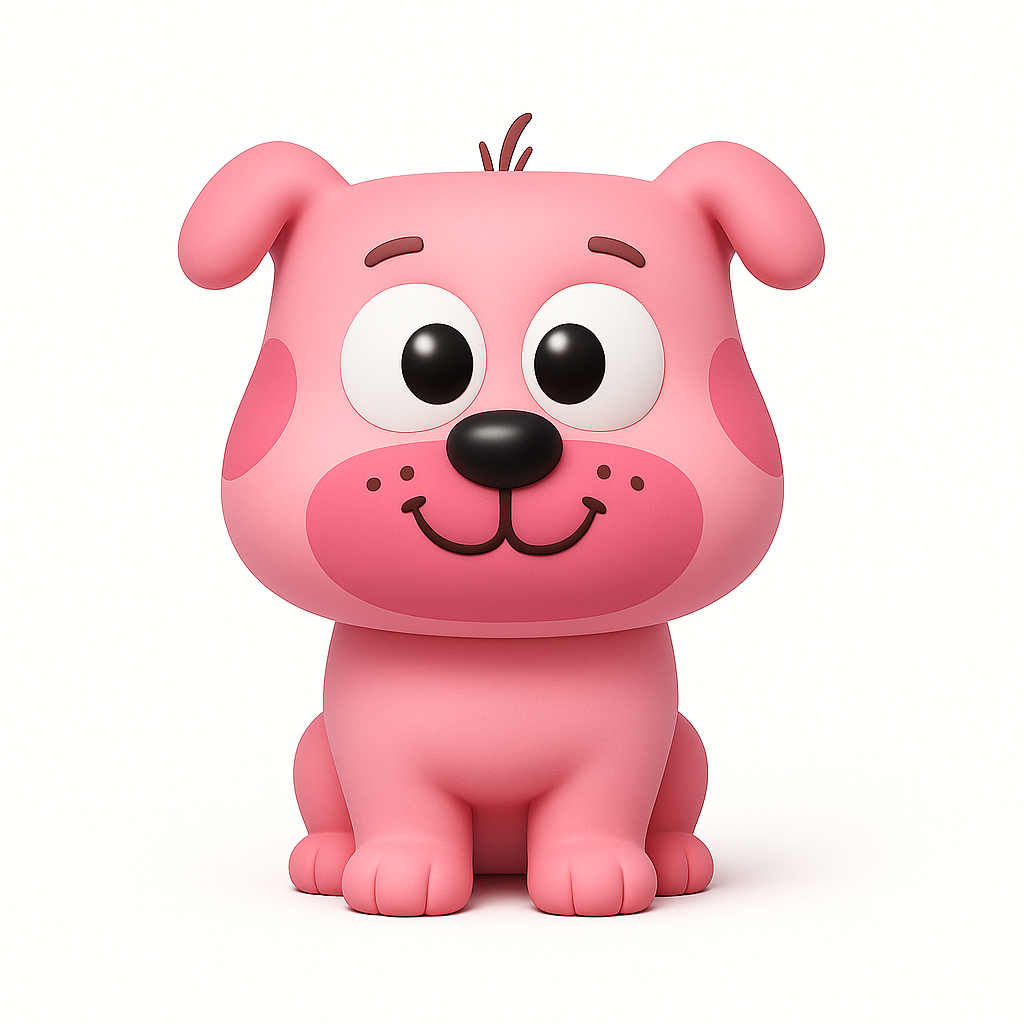
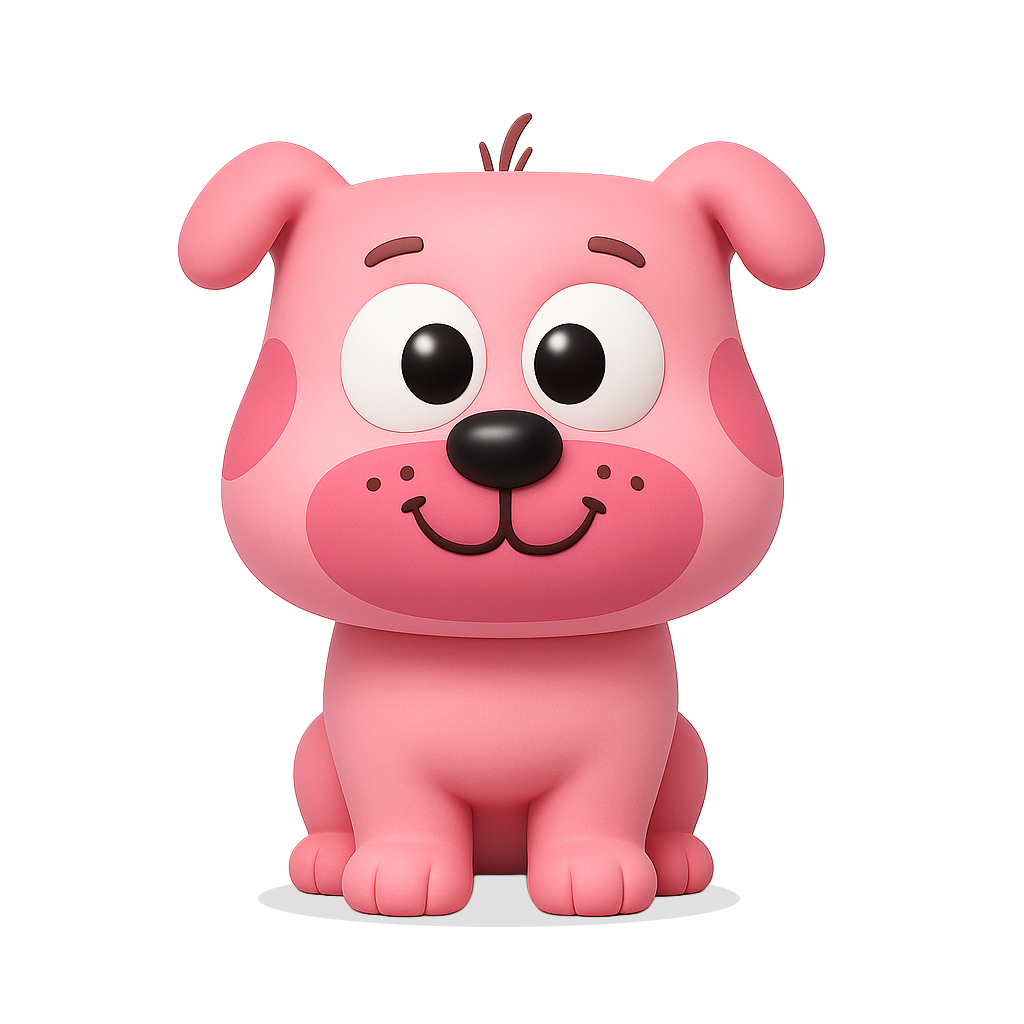
Update button labels in Hero and AboutUs components for clarity. Introduce BackgroundGradient component for enhanced visual effects in Services component. Replace deprecated image assets and add new HoverBorderGradient component for improved button interactions.

Changed region(s): [[0.25, 0.8125, 0.7812, 0.9062]]

diff --git a/components/pinkdog/services.tsx b/components/pinkdog/services.tsx
@@ -1,9 +1,10 @@
 "use client";
 import React from "react";
-import { motion } from "framer-motion";
+import { motion } from "motion/react";
 import Image from "next/image";
 import Link from "next/link";
 import { Button } from "@/components/ui/button";
+import { BackgroundGradient } from "@/components/ui/background-gradient";
 
 // Service card data
 const services = [
@@ -81,30 +82,39 @@ export function Services() {
               whileInView={{ opacity: 1, y: 0 }}
               transition={{ duration: 0.5, delay: index * 0.1 }}
               viewport={{ once: true }}
-              className="relative bg-white rounded-2xl shadow-lg overflow-hidden group"
             >
-              <div className={`absolute top-0 left-0 w-1/2 h-full ${service.color} opacity-40 rounded-r-full transform -translate-x-1/4 transition-transform group-hover:translate-x-0`}></div>
-              
-              <div className="p-6 h-full relative">
-                <div className="w-full">
-                  <div className="relative w-20 h-20 mb-4 bg-[#FCD1E6] rounded-xl p-4">
-                    <Image
-                      src={service.icon}
-                      alt={`${service.title} icon`}
-                      fill
-                      className="object-contain"
-                    />
+              <BackgroundGradient 
+                containerClassName="rounded-2xl"
+                className="p-0"
+                animate={true}
+                pinkTheme={true}
+                subtle={true}
+              >
+                <div className="relative bg-white rounded-3xl overflow-hidden group h-full">
+                  <div className={`absolute top-0 left-0 w-1/2 h-full ${service.color} opacity-30 rounded-r-full transform -translate-x-1/4 transition-transform group-hover:translate-x-0`}></div>
+                  
+                  <div className="p-6 h-full relative">
+                    <div className="w-full">
+                      <div className="relative w-20 h-20 mb-4 bg-[#FCD1E6] rounded-xl p-4">
+                        <Image
+                          src={service.icon}
+                          alt={`${service.title} icon`}
+                          fill
+                          className="object-contain"
+                        />
+                      </div>
+                      <h3 className="text-2xl font-bold text-gray-900 mb-2">{service.title}</h3>
+                      <p className="text-gray-600 mb-4">{service.description}</p>
+                      <Button
+                        className="bg-[#E73992] text-white hover:bg-[#d3337f] rounded-full"
+                        asChild
+                      >
+                        <Link href={service.link}>Learn More</Link>
+                      </Button>
+                    </div>
                   </div>
-                  <h3 className="text-2xl font-bold text-gray-900 mb-2">{service.title}</h3>
-                  <p className="text-gray-600 mb-4">{service.description}</p>
-                  <Button
-                    className="bg-[#E73992] text-white hover:bg-[#d3337f] rounded-full"
-                    asChild
-                  >
-                    <Link href={service.link}>Learn More</Link>
-                  </Button>
                 </div>
-              </div>
+              </BackgroundGradient>
             </motion.div>
           ))}
         </div>

diff --git a/components/ui/hover-border-gradient.tsx b/components/ui/hover-border-gradient.tsx
@@ -1,0 +1,99 @@
+"use client";
+import React, { useState, useEffect, useRef } from "react";
+
+import { motion } from "motion/react";
+import { cn } from "@/lib/utils";
+
+type Direction = "TOP" | "LEFT" | "BOTTOM" | "RIGHT";
+
+export function HoverBorderGradient({
+  children,
+  containerClassName,
+  className,
+  as: Tag = "button",
+  duration = 1,
+  clockwise = true,
+  ...props
+}: React.PropsWithChildren<
+  {
+    as?: React.ElementType;
+    containerClassName?: string;
+    className?: string;
+    duration?: number;
+    clockwise?: boolean;
+  } & React.HTMLAttributes<HTMLElement>
+>) {
+  const [hovered, setHovered] = useState<boolean>(false);
+  const [direction, setDirection] = useState<Direction>("TOP");
+
+  const rotateDirection = (currentDirection: Direction): Direction => {
+    const directions: Direction[] = ["TOP", "LEFT", "BOTTOM", "RIGHT"];
+    const currentIndex = directions.indexOf(currentDirection);
+    const nextIndex = clockwise
+      ? (currentIndex - 1 + directions.length) % directions.length
+      : (currentIndex + 1) % directions.length;
+    return directions[nextIndex];
+  };
+
+  const movingMap: Record<Direction, string> = {
+    TOP: "radial-gradient(20.7% 50% at 50% 0%, hsl(0, 0%, 100%) 0%, rgba(255, 255, 255, 0) 100%)",
+    LEFT: "radial-gradient(16.6% 43.1% at 0% 50%, hsl(0, 0%, 100%) 0%, rgba(255, 255, 255, 0) 100%)",
+    BOTTOM:
+      "radial-gradient(20.7% 50% at 50% 100%, hsl(0, 0%, 100%) 0%, rgba(255, 255, 255, 0) 100%)",
+    RIGHT:
+      "radial-gradient(16.2% 41.199999999999996% at 100% 50%, hsl(0, 0%, 100%) 0%, rgba(255, 255, 255, 0) 100%)",
+  };
+
+  const highlight =
+    "radial-gradient(75% 181.15942028985506% at 50% 50%, #3275F8 0%, rgba(255, 255, 255, 0) 100%)";
+
+  useEffect(() => {
+    if (!hovered) {
+      const interval = setInterval(() => {
+        setDirection((prevState) => rotateDirection(prevState));
+      }, duration * 1000);
+      return () => clearInterval(interval);
+    }
+  }, [hovered]);
+  return (
+    <Tag
+      onMouseEnter={(event: React.MouseEvent<HTMLDivElement>) => {
+        setHovered(true);
+      }}
+      onMouseLeave={() => setHovered(false)}
+      className={cn(
+        "relative flex rounded-full border  content-center bg-black/20 hover:bg-black/10 transition duration-500 dark:bg-white/20 items-center flex-col flex-nowrap gap-10 h-min justify-center overflow-visible p-px decoration-clone w-fit",
+        containerClassName
+      )}
+      {...props}
+    >
+      <div
+        className={cn(
+          "w-auto text-white z-10 bg-black px-4 py-2 rounded-[inherit]",
+          className
+        )}
+      >
+        {children}
+      </div>
+      <motion.div
+        className={cn(
+          "flex-none inset-0 overflow-hidden absolute z-0 rounded-[inherit]"
+        )}
+        style={{
+          filter: "blur(2px)",
+          position: "absolute",
+          width: "100%",
+          height: "100%",
+        }}
+        initial={{ background: movingMap[direction] }}
+        animate={{
+          background: hovered
+            ? [movingMap[direction], highlight]
+            : movingMap[direction],
+        }}
+        transition={{ ease: "linear", duration: duration ?? 1 }}
+      />
+      <div className="bg-black absolute z-1 flex-none inset-[2px] rounded-[100px]" />
+    </Tag>
+  );
+}

diff --git a/components/ui/background-gradient.tsx b/components/ui/background-gradient.tsx
@@ -1,0 +1,87 @@
+import { cn } from "@/lib/utils";
+import React from "react";
+import { motion } from "motion/react";
+
+export const BackgroundGradient = ({
+  children,
+  className,
+  containerClassName,
+  animate = true,
+  pinkTheme = false,
+  subtle = false,
+}: {
+  children?: React.ReactNode;
+  className?: string;
+  containerClassName?: string;
+  animate?: boolean;
+  pinkTheme?: boolean;
+  subtle?: boolean;
+}) => {
+  const variants = {
+    initial: {
+      backgroundPosition: "0 50%",
+    },
+    animate: {
+      backgroundPosition: ["0, 50%", "100% 50%", "0 50%"],
+    },
+  };
+
+  const defaultGradient = "bg-[radial-gradient(circle_farthest-side_at_0_100%,#00ccb1,transparent),radial-gradient(circle_farthest-side_at_100%_0,#7b61ff,transparent),radial-gradient(circle_farthest-side_at_100%_100%,#ffc414,transparent),radial-gradient(circle_farthest-side_at_0_0,#1ca0fb,#141316)]";
+  
+  const pinkGradient = "bg-[radial-gradient(circle_farthest-side_at_0_100%,#FCD1E6,transparent),radial-gradient(circle_farthest-side_at_100%_0,#E73992,transparent),radial-gradient(circle_farthest-side_at_100%_100%,#FFEBF5,transparent),radial-gradient(circle_farthest-side_at_0_0,#ff99cc,#141316)]";
+  
+  const gradientClass = pinkTheme ? pinkGradient : defaultGradient;
+  
+  return (
+    <div className={cn("relative p-[2px] group", containerClassName)}>
+      <motion.div
+        variants={animate ? variants : undefined}
+        initial={animate ? "initial" : undefined}
+        animate={animate ? "animate" : undefined}
+        transition={
+          animate
+            ? {
+                duration: 8,
+                repeat: Infinity,
+                repeatType: "reverse",
+              }
+            : undefined
+        }
+        style={{
+          backgroundSize: animate ? "400% 400%" : undefined,
+        }}
+        className={cn(
+          "absolute inset-0 rounded-3xl z-[1]",
+          subtle ? "opacity-20 group-hover:opacity-30 blur-md" : "opacity-60 group-hover:opacity-100 blur-xl",
+          "transition duration-500 will-change-transform",
+          gradientClass
+        )}
+      />
+      <motion.div
+        variants={animate ? variants : undefined}
+        initial={animate ? "initial" : undefined}
+        animate={animate ? "animate" : undefined}
+        transition={
+          animate
+            ? {
+                duration: 8,
+                repeat: Infinity,
+                repeatType: "reverse",
+              }
+            : undefined
+        }
+        style={{
+          backgroundSize: animate ? "400% 400%" : undefined,
+        }}
+        className={cn(
+          "absolute inset-0 rounded-3xl z-[1]",
+          subtle ? "opacity-15" : "",
+          "will-change-transform",
+          gradientClass
+        )}
+      />
+
+      <div className={cn("relative z-10", className)}>{children}</div>
+    </div>
+  );
+};

diff --git a/components/pinkdog/testimonials.tsx b/components/pinkdog/testimonials.tsx
@@ -5,6 +5,7 @@ import { motion } from "motion/react";
 import React, { useState, useEffect } from "react";
 import { cn } from "@/lib/utils";
 import { Button } from "@/components/ui/button";
+import Link from "next/link";
 
 // Testimonial data for PinkDog
 const testimonialData = [
@@ -74,13 +75,11 @@ export function Testimonials() {
                 asChild
                 className="z-40 bg-gradient-to-r from-pink-400 to-pink-600 text-white px-6 py-2.5 rounded-full hover:opacity-90 transition-all duration-200 shadow-[0_1px_2px_rgba(0,0,0,0.2)]"
               >
-                <a 
-                  href="#"
-                  target="_blank"
-                  rel="noopener noreferrer"
+                <Link 
+                  href="/booking"
                 >
-                  Book Now
-                </a>
+                  Try Pink Dog Today
+                </Link>
               </Button>
             </div>
      

diff --git a/components/hero.tsx b/components/hero.tsx
@@ -184,7 +184,7 @@ export function Hero() {
                     className="bg-[#E73992] text-white hover:bg-[#d3337f] text-base sm:text-base md:text-lg font-medium px-6 sm:px-6 md:px-8 py-3 sm:py-3 md:py-3.5 h-auto rounded-full shadow-md hover:shadow-lg transition-all duration-200 hover:scale-105 hover:-translate-y-0.5"
                     asChild
                   >
-                    <Link href="/booking">Book Now</Link>
+                    <Link href="/booking">Schedule Visit</Link>
                   </Button>
                   <Button
                     className="bg-white text-[#E73992] border-2 border-[#E73992] hover:bg-[#FCD1E6] hover:text-[#E73992] hover:border-[#E73992] text-base sm:text-base md:text-lg font-medium px-6 sm:px-6 md:px-8 py-3 sm:py-3 md:py-3.5 h-auto rounded-full shadow-sm hover:shadow-md transition-all duration-200 hover:scale-105 hover:-translate-y-0.5"

diff --git a/components/pinkdog/about-us.tsx b/components/pinkdog/about-us.tsx
@@ -297,7 +297,7 @@ export function AboutUs() {
               className="bg-[#E73992] text-white hover:bg-[#d3337f] rounded-full px-8 py-6 h-auto"
               asChild
             >
-              <Link href="/booking">Book Now</Link>
+              <Link href="/booking">Reserve Spot</Link>
             </Button>
             <Button
               className="bg-white text-[#E73992] border-2 border-[#E73992] hover:bg-[#FCD1E6] hover:text-[#E73992] hover:border-[#E73992] rounded-full px-8 py-6 h-auto"
